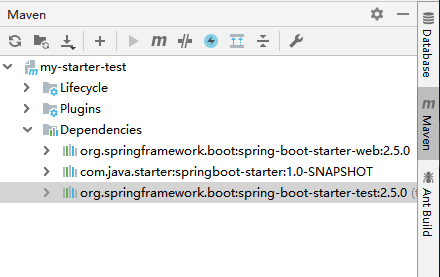
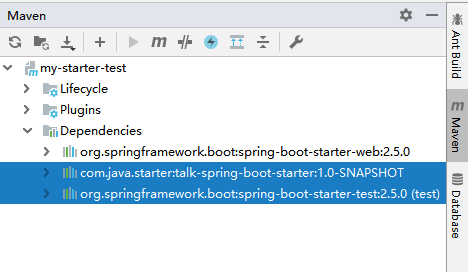
update mystartertest, 测试自定义的starter

Changed region(s): [[0.0, 0.0, 1.0, 1.0]]

diff --git a/SpringBoot/my-starter-test/src/main/java/com/java/mystartertest/controller/DemoController.java b/SpringBoot/my-starter-test/src/main/java/com/java/mystartertest/controller/DemoController.java
@@ -1,6 +1,6 @@
 package com.java.mystartertest.controller;
 
-import com.java.starter.springbootstarter.service.TalkService;
+import com.java.starter.service.TalkService;
 import org.springframework.beans.factory.annotation.Autowired;
 import org.springframework.web.bind.annotation.GetMapping;
 import org.springframework.web.bind.annotation.RestController;
